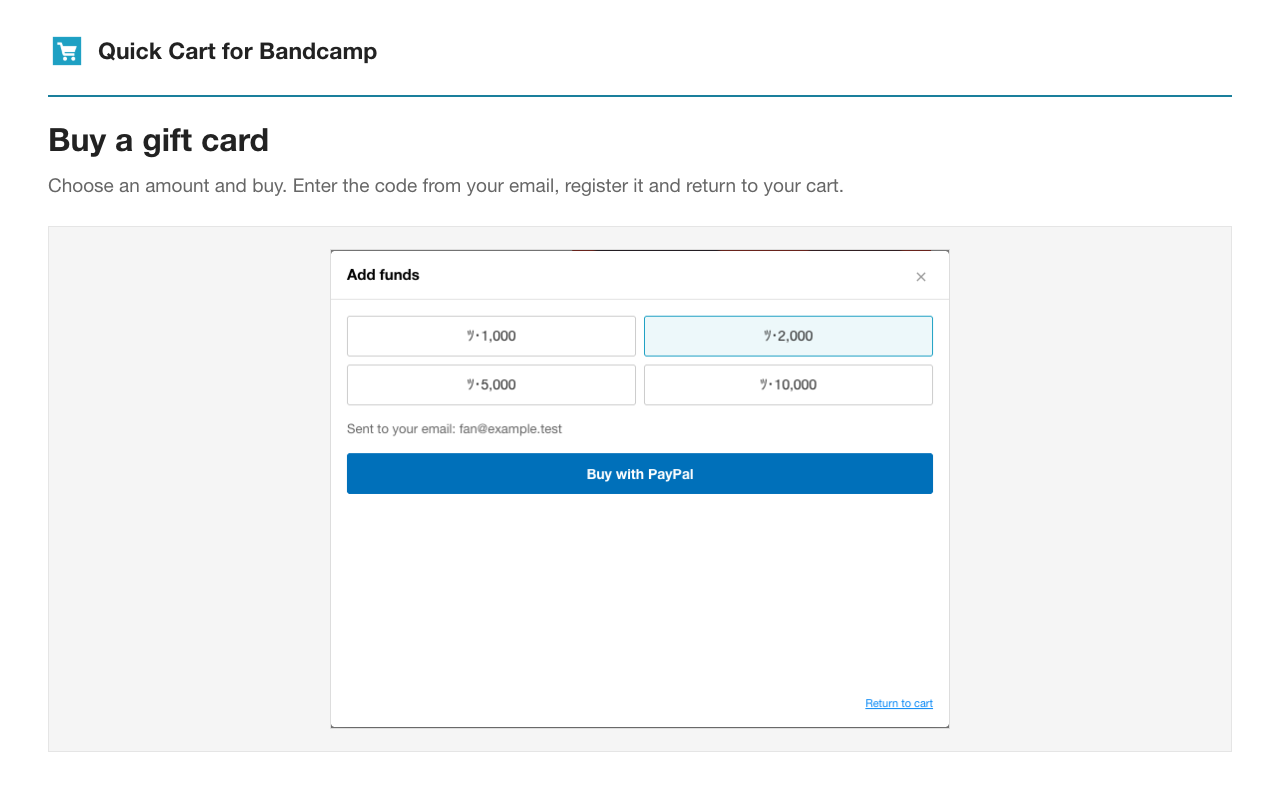
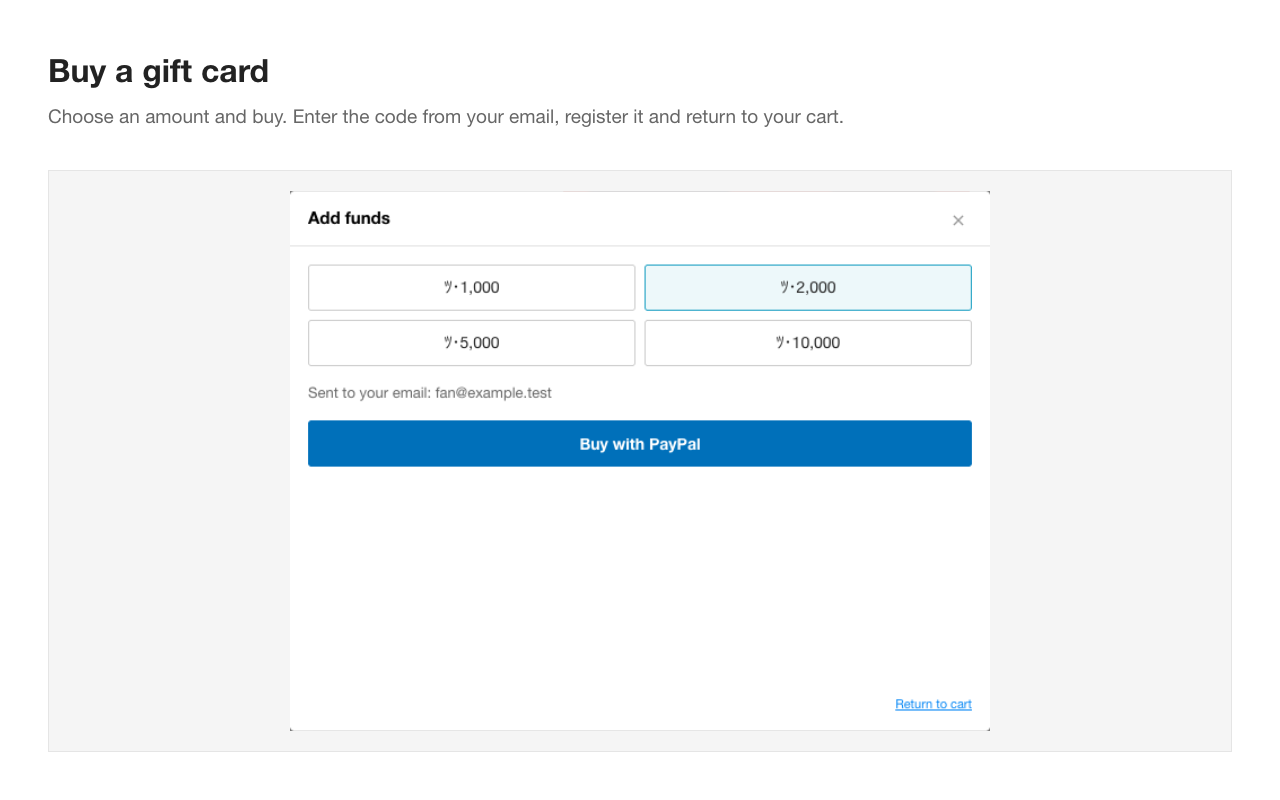
Update screenshot assets and hide modal capture edges

diff --git a/style.css b/style.css
@@ -1,1 +1,4 @@
 :root{--ink:#222;--muted:#666;--accent:#1a7f9c;--line:#e5e5e5;font-family:"Helvetica Neue",Helvetica,Arial,"Hiragino Sans",sans-serif;color:var(--ink);background:#fff}*{box-sizing:border-box}body{margin:0}a{color:var(--accent);text-decoration:none}a:hover{text-decoration:underline}button{font:inherit;cursor:pointer}a:focus-visible,button:focus-visible{outline:2px solid var(--accent);outline-offset:4px}.site-header,.site-footer,main{max-width:1100px;margin:auto}.site-header{padding:24px 28px;display:flex;justify-content:space-between;align-items:center;border-bottom:1px solid var(--line);gap:20px}.brand{display:flex;align-items:center;gap:10px;color:#222;font-weight:600;font-size:19px}.brand small{display:block;font-size:12px;font-weight:400}.site-header nav{display:flex;gap:24px;align-items:center;font-size:14px}.site-header button{border:1px solid #ccc;background:white;color:var(--accent);padding:6px 10px;border-radius:3px}main{padding:0 28px}.hero{display:grid;grid-template-columns:1fr 1.1fr;gap:42px;align-items:center;padding:55px 0}.hero h1{font-size:34px;line-height:1.25;margin:0 0 22px;font-weight:600;letter-spacing:-.5px}.lead{font-size:17px;line-height:1.8;color:#555;margin:0 0 24px}.button{display:inline-block;background:var(--accent);color:white;font-size:15px;font-weight:600;padding:12px 17px;border:1px solid var(--accent);border-radius:3px}.button:hover{background:#176e86;text-decoration:none}.release-note{font-size:12px;line-height:1.8;color:var(--muted);margin:16px 0 0;max-width:420px}.hero-visual{border:1px solid #ddd;background:#fafafa;padding:14px}.hero-visual img{display:block;width:100%;height:auto;border:1px solid #ddd;background:white}.visual-label{font-size:13px;font-weight:600;color:#555;margin:0 0 10px}.intro{border-top:1px solid var(--line);padding-top:35px;margin-bottom:20px}h2{font-size:24px;line-height:1.5;font-weight:600;margin:0 0 12px}.intro p{font-size:15px;color:var(--muted);line-height:1.8;margin:0}.tabs{display:flex;gap:0;border-bottom:1px solid #ccc;margin-bottom:16px;flex-wrap:wrap}.tabs button{color:#666;background:white;border:0;border-bottom:3px solid transparent;padding:12px 19px;font-size:14px}.tabs button[aria-selected=true]{color:#222;border-bottom-color:var(--accent);font-weight:600}#feature-panel{border:1px solid var(--line);background:white}#feature-image{display:block;width:100%;height:auto}.gallery-note{font-size:12px;color:var(--muted);margin:10px 0}.gift-section{border-top:1px solid var(--line);display:grid;grid-template-columns:1fr 1.2fr;gap:35px;margin-top:38px;padding:35px 0}.gift-section>div>p{font-size:15px;color:var(--muted);line-height:1.8}.steps{list-style:none;margin:0;padding:0}.steps li{display:flex;gap:18px;border-bottom:1px solid var(--line);padding:0 0 19px;margin-bottom:20px}.steps li>span{font-size:13px;color:var(--accent);padding-top:4px}.steps h3{font-size:17px;font-weight:600;margin:0 0 7px}.steps p{font-size:14px;color:var(--muted);line-height:1.8;margin:0}.gift-note{grid-column:1/-1;font-size:12px;color:var(--muted);line-height:1.8;margin:-25px 0 0}.privacy-card{border-top:1px solid var(--line);padding:30px 0 40px}.privacy-card p{font-size:14px;color:var(--muted);line-height:1.9;max-width:790px}.privacy-card a{font-size:14px}.site-footer{border-top:1px solid var(--line);padding:22px 28px;display:flex;justify-content:space-between;font-size:12px;color:var(--muted);gap:20px}.site-footer div{display:flex;gap:20px}.policy{max-width:820px;margin:45px auto;padding:0 24px}.policy h1{font-size:30px;line-height:1.5;margin-top:25px}.policy h2{font-size:24px;margin:30px 0 18px}.policy p{line-height:1.9;color:var(--muted);font-size:15px}.policy a{text-decoration:underline}.policy .updated{font-size:13px}.policy section{border-top:1px solid var(--line);margin-top:30px;padding-top:10px}@media(max-width:720px){.site-header{padding:18px 20px}.brand{font-size:17px}.brand img{width:30px;height:30px}.site-header nav{gap:12px}.site-header nav>a{display:none}main{padding:0 20px}.hero{grid-template-columns:1fr;gap:26px;padding:35px 0}.hero h1{font-size:29px}.lead{font-size:16px}.hero-visual{padding:10px}.intro{padding-top:25px}.tabs button{padding:10px;font-size:12px}.gift-section{grid-template-columns:1fr;gap:18px;margin-top:28px;padding:25px 0}.gift-note{grid-column:auto;margin:0}.privacy-card{padding:25px 0}.site-footer{padding:20px;flex-direction:column;gap:14px}.policy{margin-top:28px}.policy h1{font-size:26px}}
+
+/* Hide the one-pixel surrounding page edge in modal captures. */
+#hero-image{clip-path:inset(1px 0)}
